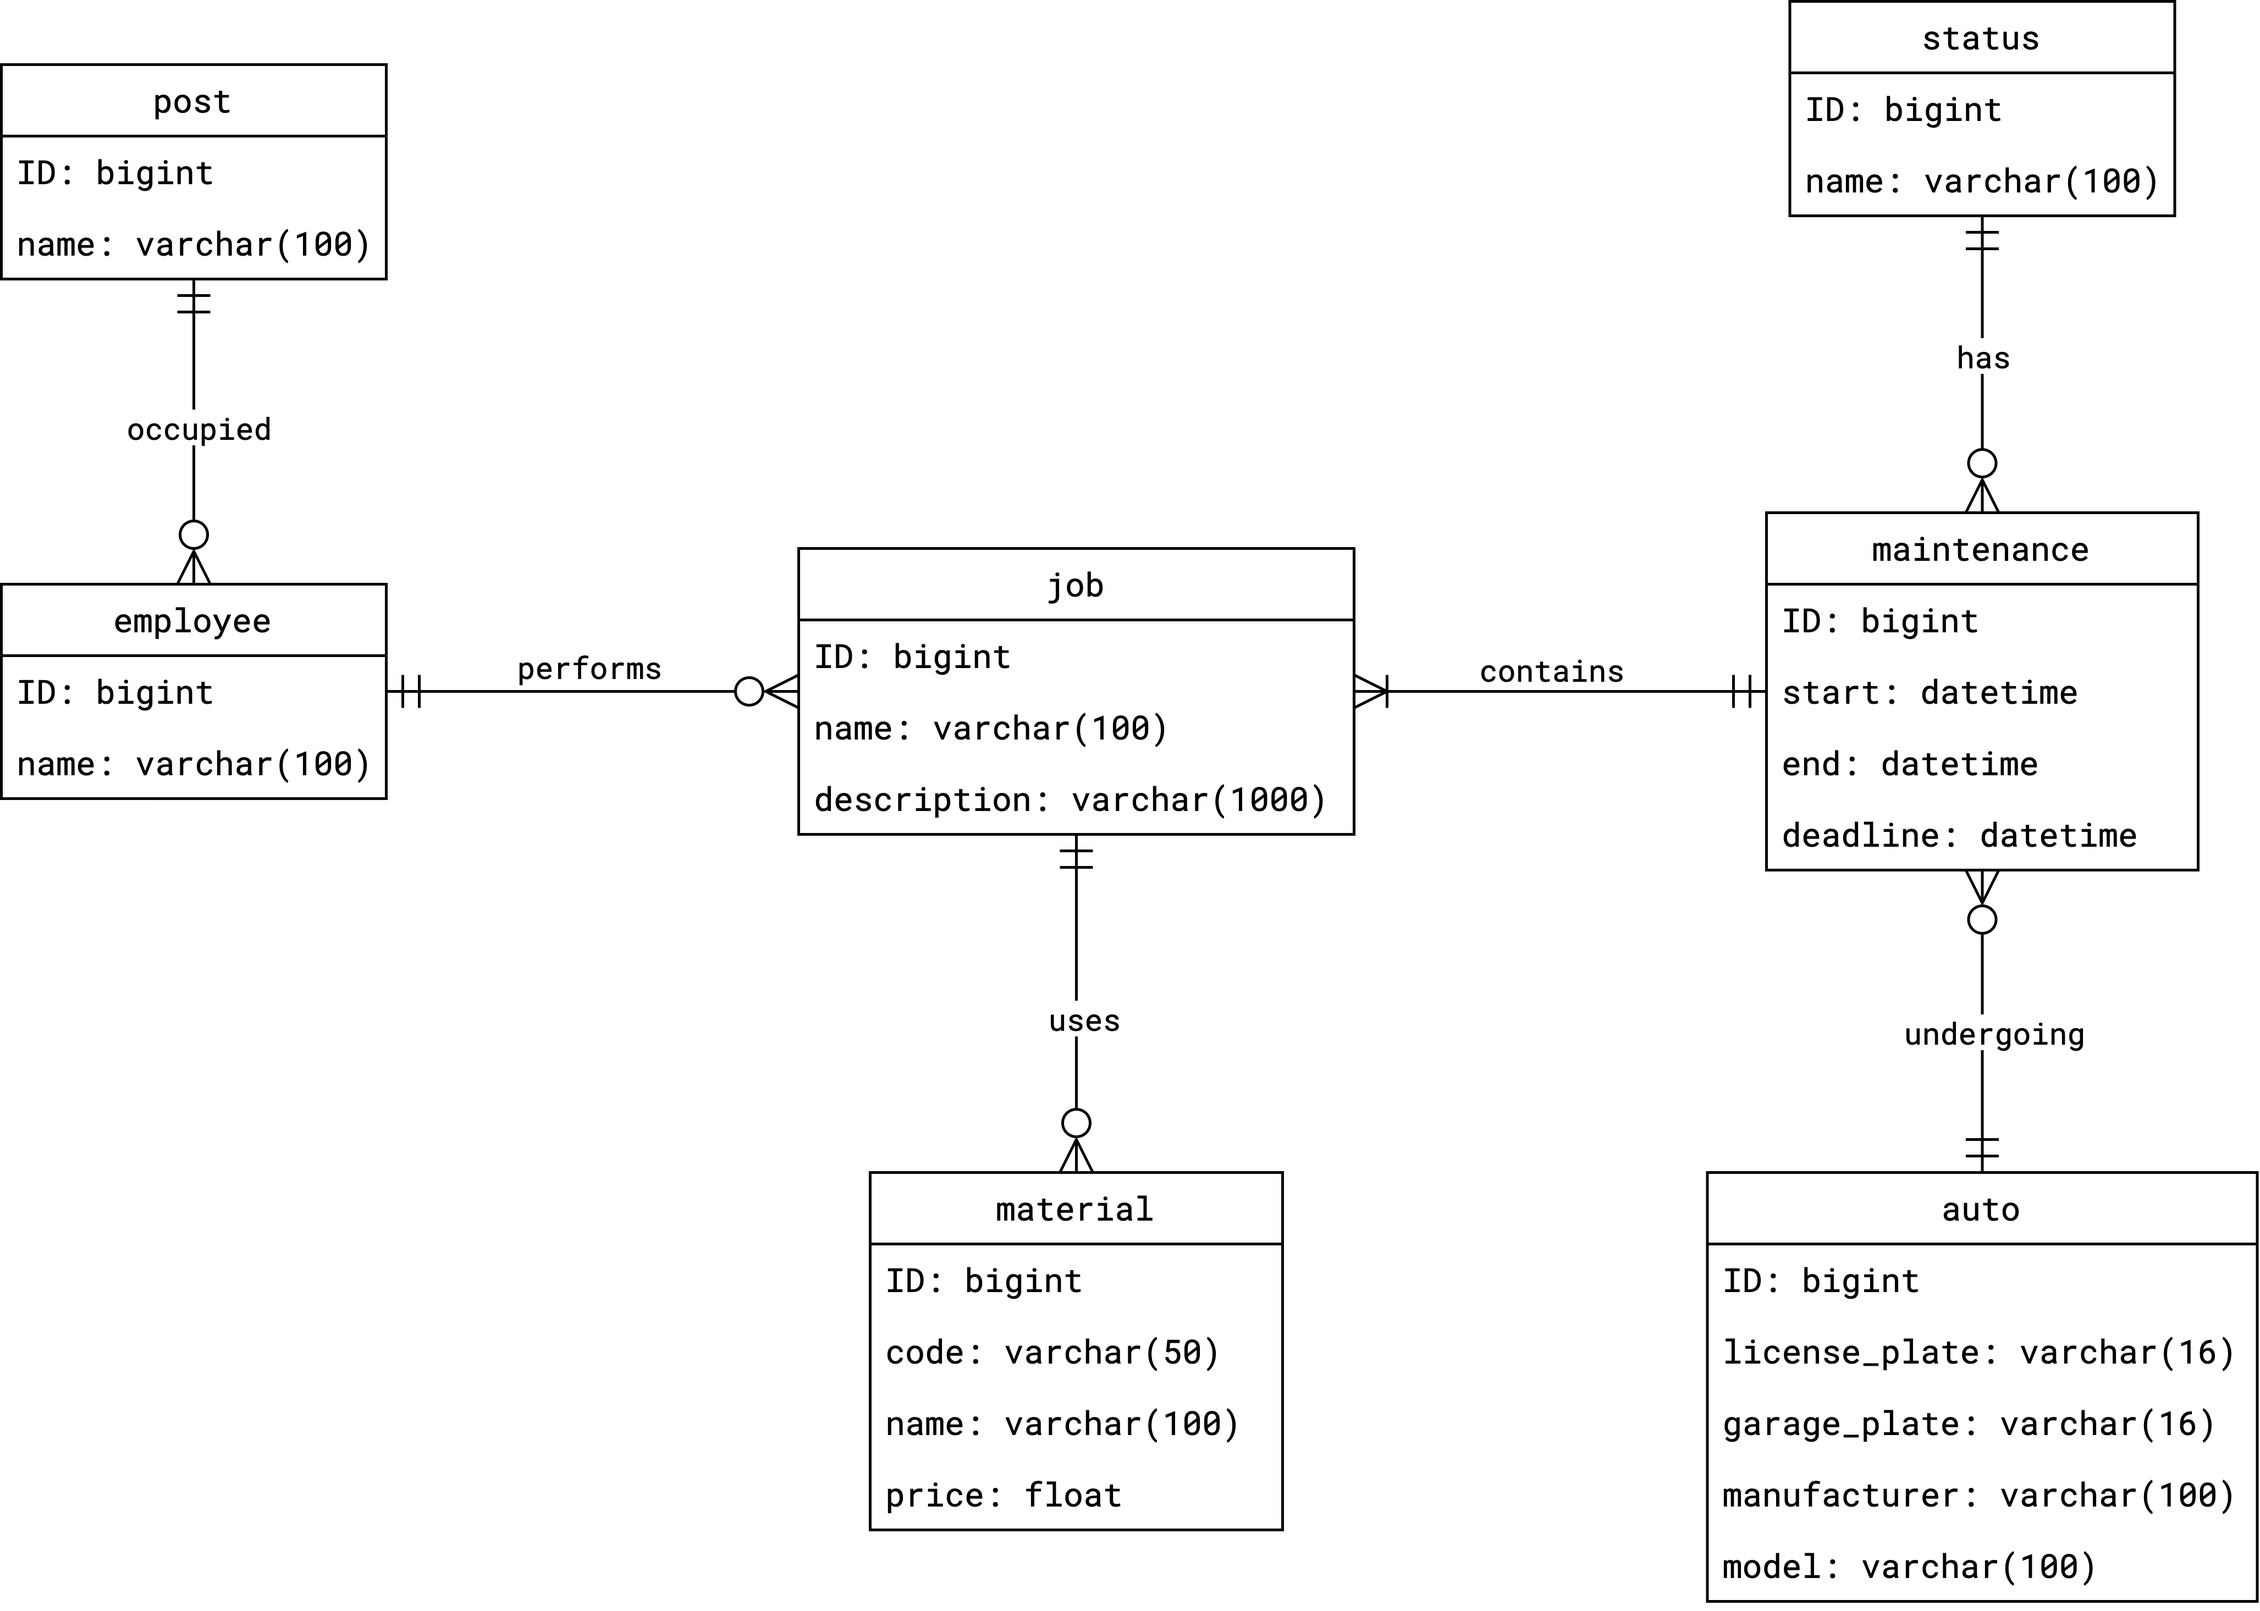
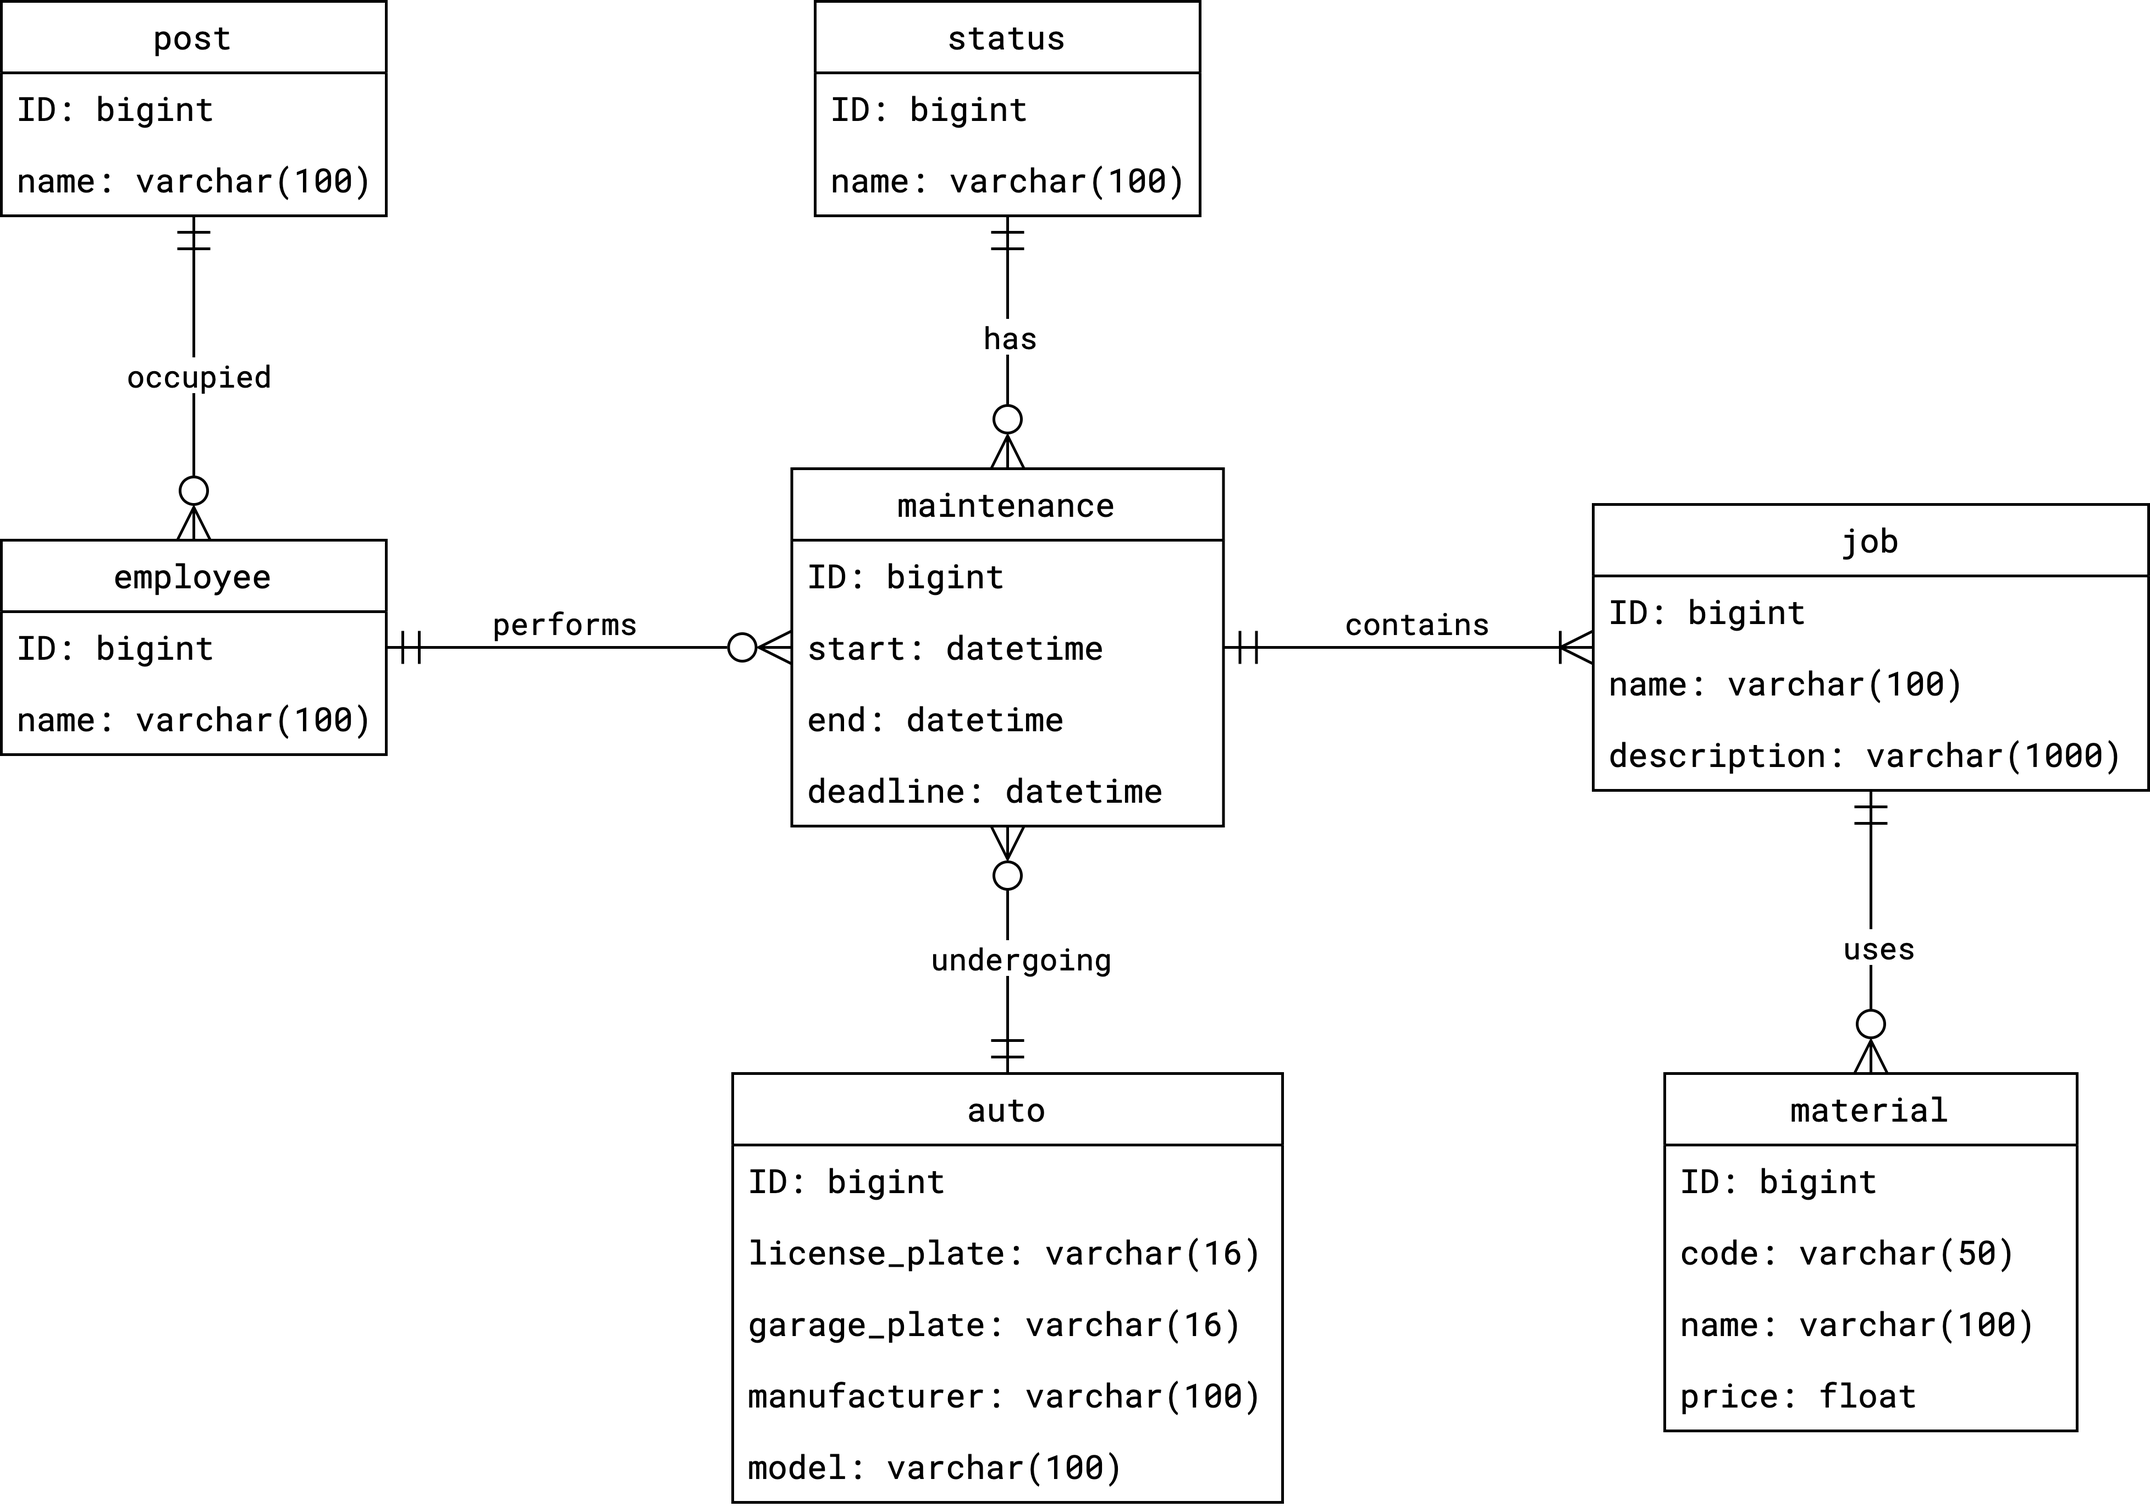
обновил логическую и физическую модели

diff --git a/3/1.tex b/3/1.tex
@@ -31,16 +31,6 @@
 \end{landscape}
 \clearpage
 
-Спецификация сущностей приведена в таблицах \ref{tab:post} --
-\ref{tab:auto}.
-\input{tables/post.tex}
-\input{tables/employee.tex}
-\input{tables/job.tex}
-\input{tables/material.tex}
-\input{tables/status.tex}
-\input{tables/maintenance.tex}
-\input{tables/auto.tex}
-
 Физическая модель данных разрабатываемой системы представлена на рисунке
 \ref{fig:3_1_db_physical}
 
@@ -56,5 +46,15 @@
 
 \end{landscape}
 \clearpage
+
+Спецификация сущностей приведена в таблицах \ref{tab:post} --
+\ref{tab:auto}.
+\input{tables/post.tex}
+\input{tables/employee.tex}
+\input{tables/job.tex}
+\input{tables/material.tex}
+\input{tables/status.tex}
+\input{tables/maintenance.tex}
+\input{tables/auto.tex}
 
 \end{document}

diff --git a/3/tables/maintenance.tex b/3/tables/maintenance.tex
@@ -14,5 +14,8 @@
     id & bigint & \checkmark & \checkmark \\
     start & datetime & \checkmark & \\
     deadline & datetime & \checkmark & \\
-    end & datetime & \checkmark &
+    end & datetime & \checkmark & \\
+    mechanic\_id & bigint & \checkmark & \\
+    auto\_id & bigint & \checkmark & \\
+    status\_id & bigint & \checkmark & \\
 \end{longtblr}

diff --git a/3/tables/job.tex b/3/tables/job.tex
@@ -13,5 +13,6 @@
 \SetCell[c=1,r=1]{c}{Код} & Тип & M & PK \\
     id & bigint & \checkmark & \checkmark \\
     name & varchar(100) & \checkmark & \\
-    description & varchar(1000) & &
+    description & varchar(1000) & & \\
+    maintenance\_id & bigint & \checkmark & \\
 \end{longtblr}

diff --git a/3/tables/material.tex b/3/tables/material.tex
@@ -14,5 +14,6 @@
     id & bigint & \checkmark & \checkmark \\
     code & varchar(50) & \checkmark & \\
     name & varchar(100) & \checkmark & \\
-    price & float & \checkmark &
+    price & float & \checkmark & \\
+    job\_id & bigint & \checkmark &
 \end{longtblr}

diff --git a/3/tables/employee.tex b/3/tables/employee.tex
@@ -12,5 +12,6 @@
 }
 \SetCell[c=1,r=1]{c}{Код} & Тип & M & PK \\
     id & bigint & \checkmark & \checkmark \\
-    name & varchar(100) & \checkmark &
+    name & varchar(100) & \checkmark & \\
+    post\_id & bigint & \checkmark &
 \end{longtblr}
